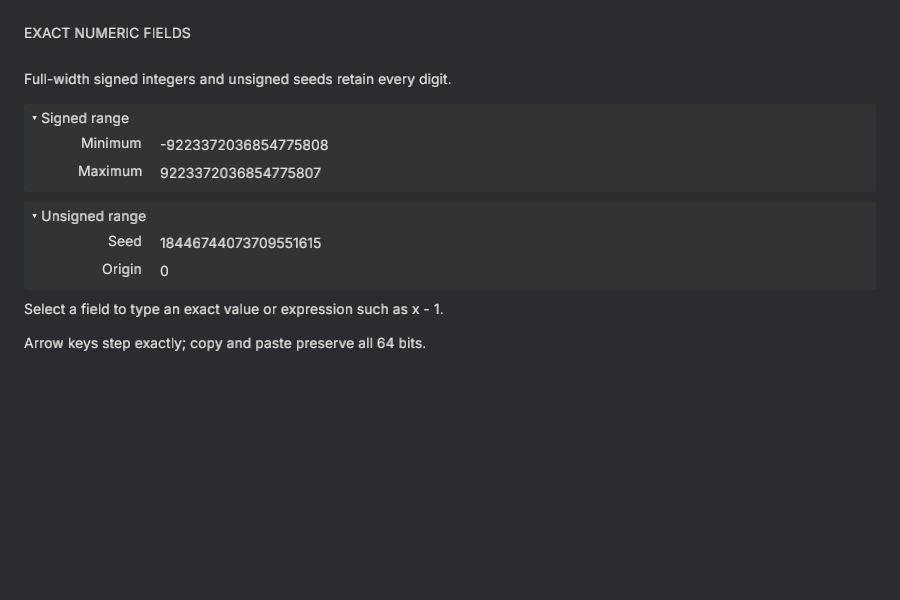
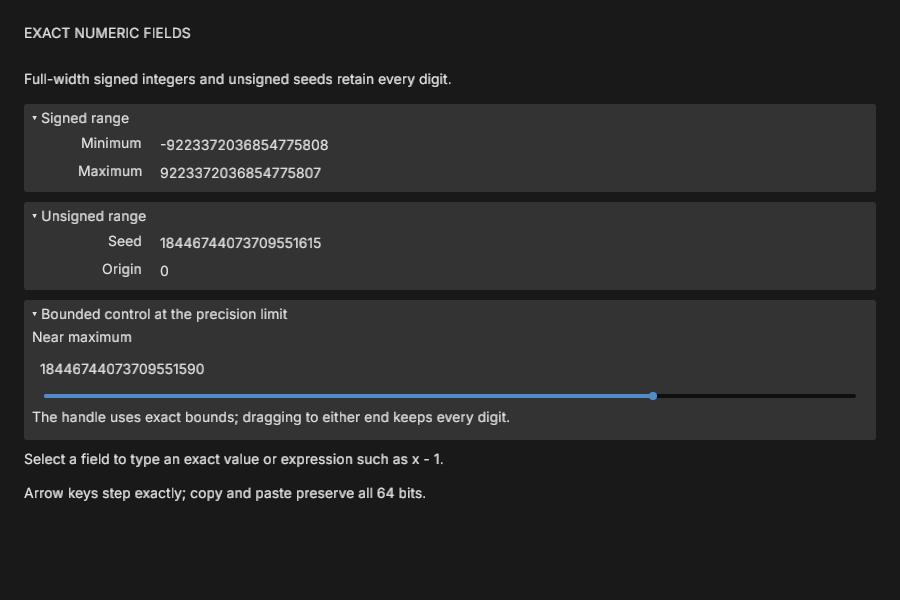
Show exact sliders without text overlap in both themes

Changed region(s): [[0.0311, 0.51, 0.9333, 0.72], [0.0311, 0.75, 0.4978, 0.78], [0.0311, 0.81, 0.4667, 0.84]]

diff --git a/crates/bbui/examples/exact_numbers.rs b/crates/bbui/examples/exact_numbers.rs
@@ -2,6 +2,7 @@
 //! Run with `cargo run -p bbui --example exact_numbers`.
 
 use bbui::prelude::*;
+use bbui::widgets::NumericValue;
 use bbui_layout::{Rect, UiEdges};
 use bevy::prelude::*;
 use bevy::window::{PrimaryWindow, WindowResolution};
@@ -18,6 +19,14 @@ fn install_ui(world: &mut World) {
         eprintln!("exact numeric example requires a primary window");
         return;
     };
+    let mut slider_field = NumericField::unsigned(u64::MAX - 25);
+    slider_field
+        .set_typed_bounds(
+            Some(NumericValue::Unsigned(u64::MAX - 100)),
+            Some(NumericValue::Unsigned(u64::MAX)),
+        )
+        .expect("valid full-width slider bounds");
+    let slider = Slider::from_field(slider_field).expect("bounded exact slider");
     let Ok(root) = WidgetTree::new(
         WidgetNode::column([
             WidgetNode::label("EXACT NUMERIC FIELDS").with_height(UiLength::Px(36.0)),
@@ -52,6 +61,21 @@ fn install_ui(world: &mut World) {
                 ],
             )
             .with_width(UiLength::Fill(1.0)),
+            WidgetNode::panel(
+                "Bounded control at the precision limit",
+                true,
+                [
+                    WidgetNode::label("Near maximum"),
+                    WidgetNode::slider("", slider)
+                        .with_key("exact-slider")
+                        .with_width(UiLength::Fill(1.0))
+                        .with_height(UiLength::Px(48.0)),
+                    WidgetNode::label(
+                        "The handle uses exact bounds; dragging to either end keeps every digit.",
+                    ),
+                ],
+            )
+            .with_width(UiLength::Fill(1.0)),
             WidgetNode::label("Select a field to type an exact value or expression such as x - 1."),
             WidgetNode::label("Arrow keys step exactly; copy and paste preserve all 64 bits."),
         ])
@@ -80,6 +104,13 @@ fn setup(world: &mut World) {
     install_ui(world);
 }
 
+fn sync_clear_color(theme: Res<Theme>, mut clear: ResMut<ClearColor>) {
+    if theme.is_changed() {
+        let background = theme.background;
+        clear.0 = Color::srgba(background.0, background.1, background.2, background.3);
+    }
+}
+
 fn main() {
     App::new()
         .add_plugins(DefaultPlugins.set(WindowPlugin {
@@ -92,5 +123,6 @@ fn main() {
         }))
         .add_plugins(BbuiPlugin)
         .add_systems(Startup, setup)
+        .add_systems(Update, sync_clear_color)
         .run();
 }

diff --git a/crates/bbui_widgets/src/actions/paint/entity_text.rs b/crates/bbui_widgets/src/actions/paint/entity_text.rs
@@ -165,8 +165,14 @@ pub(super) fn paint_text_controls(paint: &mut PaintEntityContext<'_>) -> bool {
         let filled = world
             .get::<UiRole>(entity)
             .is_some_and(|role| role.0 == "filled-slider");
-        let value_width = filled
-            .then(|| measured_text_width(world, entity, &format!("{:.3}", slider.value), theme));
+        let value_width = filled.then(|| {
+            let value = if slider.kind == NumericFieldKind::Float {
+                format!("{:.3}", slider.value)
+            } else {
+                slider.value_text()
+            };
+            measured_text_width(world, entity, &value, theme)
+        });
         paint_slider(
             SliderPaint {
                 slider: &slider,

diff --git a/crates/bbui_widgets/src/declarative/mount.rs b/crates/bbui_widgets/src/declarative/mount.rs
@@ -351,6 +351,9 @@ pub(super) fn layout_for(spec: &WidgetSpec) -> UiLayoutNode {
             UiLength::Px(220.0),
             UiLength::Px(24.0 * (group.options.len().max(1) as f32 + 1.0)),
         ),
+        WidgetSpec::Slider { slider, .. } if slider.value_text().chars().count() > 14 => {
+            UiLayoutNode::leaf(UiLength::Px(260.0), UiLength::Px(48.0))
+        }
         WidgetSpec::Slider { .. } | WidgetSpec::SliderRange { .. } => {
             UiLayoutNode::leaf(UiLength::Px(260.0), UiLength::Px(32.0))
         }

diff --git a/crates/bbui_widgets/src/actions/paint/slider.rs b/crates/bbui_widgets/src/actions/paint/slider.rs
@@ -54,7 +54,11 @@ pub(in crate::actions) fn paint_slider(paint: SliderPaint<'_>, output: &mut Vec<
                 },
             ));
         }
-        let value = format!("{:.3}", slider.value);
+        let value = if slider.kind == NumericFieldKind::Float {
+            format!("{:.3}", slider.value)
+        } else {
+            slider.value_text()
+        };
         let value_width = value_width.unwrap_or(0.0);
         let value_text = styled_text_primitive(
             clip,

diff --git a/crates/bbui/examples/exact_numbers/capture.rs b/crates/bbui/examples/exact_numbers/capture.rs
@@ -94,7 +94,8 @@ fn capture_exact_numbers() {
             .disable::<bevy::pbr::PbrPlugin>(),
     )
     .add_plugins(BbuiPlugin)
-    .init_resource::<Frames>();
+    .init_resource::<Frames>()
+    .add_systems(Update, sync_clear_color);
     app.finish();
     app.cleanup();
     let mut image = Image::new_target_texture(WIDTH, HEIGHT, TextureFormat::Rgba8UnormSrgb, None);
